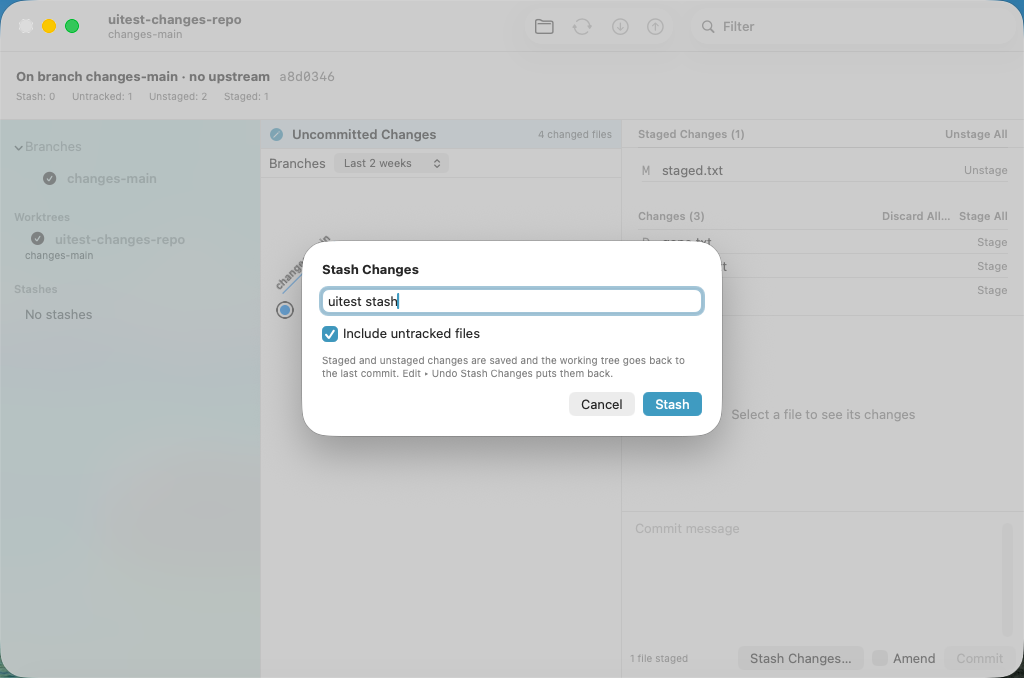
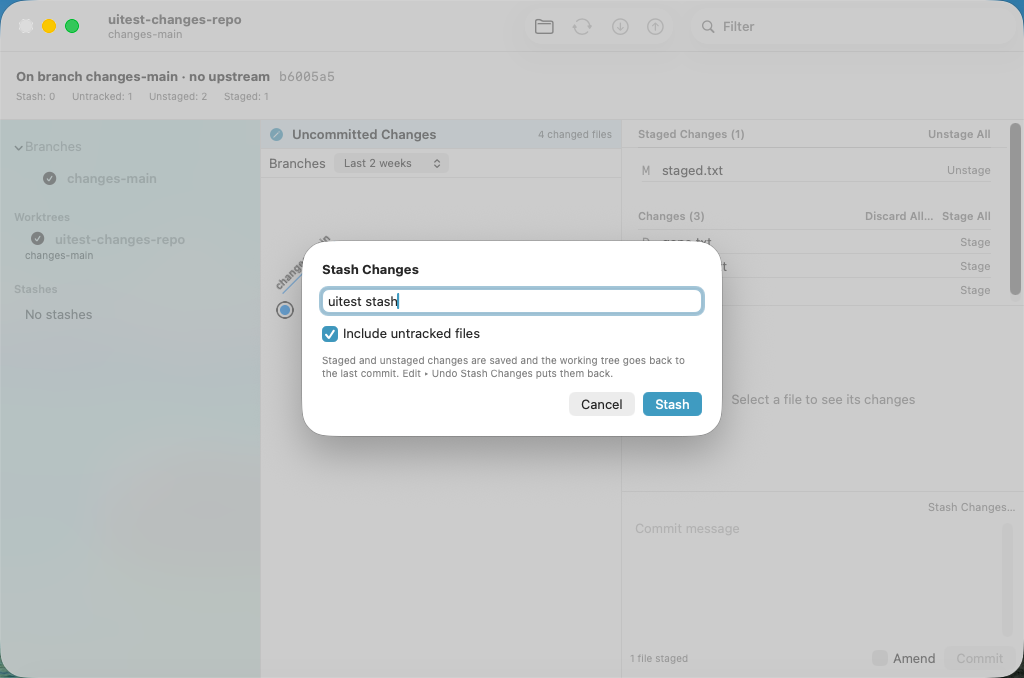
#0489: staged check recorded; screenshots from the final Stash Changes… placement

diff --git a/issues/0489.md b/issues/0489.md
@@ -96,7 +96,15 @@ passed after its own step (see the work log).
   control (#0494: the sheet's Stash does nothing; #0496: Drop does nothing). The first `spike-0496`
   screenshot showed the Restore staged changes checkbox wrapping a word per line beside the buttons,
   and the popped-changes screenshot showed Stash Changes… truncating the Amend row; both were moved
-  to their own rows in the children's code, and `spike-0496` passed again after the move.
+  to their own rows in the children's code, and `spike-0494` and `spike-0496` passed again after
+  the move.
+- 2026-09-29 staged check, final: `ops.py` applied #0490–#0496 in order to a fresh `main` (86c47dab)
+  checkout (`../sy-plan-stash-c`); the tree was byte-identical to the prototype. Filtered runs after
+  each step: #0490 `StashSnapshotTests` 9 and the registries 9 in 2 suites; #0491 `StashPushTests`
+  8; #0492 `StashApplyTests` 9; #0493 `StashDiffTests` 3; #0494 37 in 3 suites (`StashChangesTests`,
+  `JournalMenuTests`, `WorkingChangesTests`); #0495 16 (`StashActionsTests` and the sidebar tests);
+  #0496 `RerereSurfaceTests` 10 — all passing. Full suite on the staged tree: 162 / 397 / 399 / 1167
+  / 14 / 122, all passing.
 
 ![Planning VM: Stash Changes… sheet](0489/stash-changes-sheet.png)
 
@@ -104,4 +112,4 @@ passed after its own step (see the work log).
 
 ![Planning VM: a stash selected in the sidebar, with its files and Apply / Pop / Drop…](0489/stash-detail.png)
 
-![Planning VM: after Pop, the stash is gone and its change is in the Changes view (Stash Changes… here is the cramped first placement, since moved)](0489/stash-popped.png)
+![Planning VM: after Pop, the stash is gone and its change is in the Changes view (the Stash Changes… button here is the first, cramped placement; #0494 moves it to its own row, as in the screenshot above)](0489/stash-popped.png)
